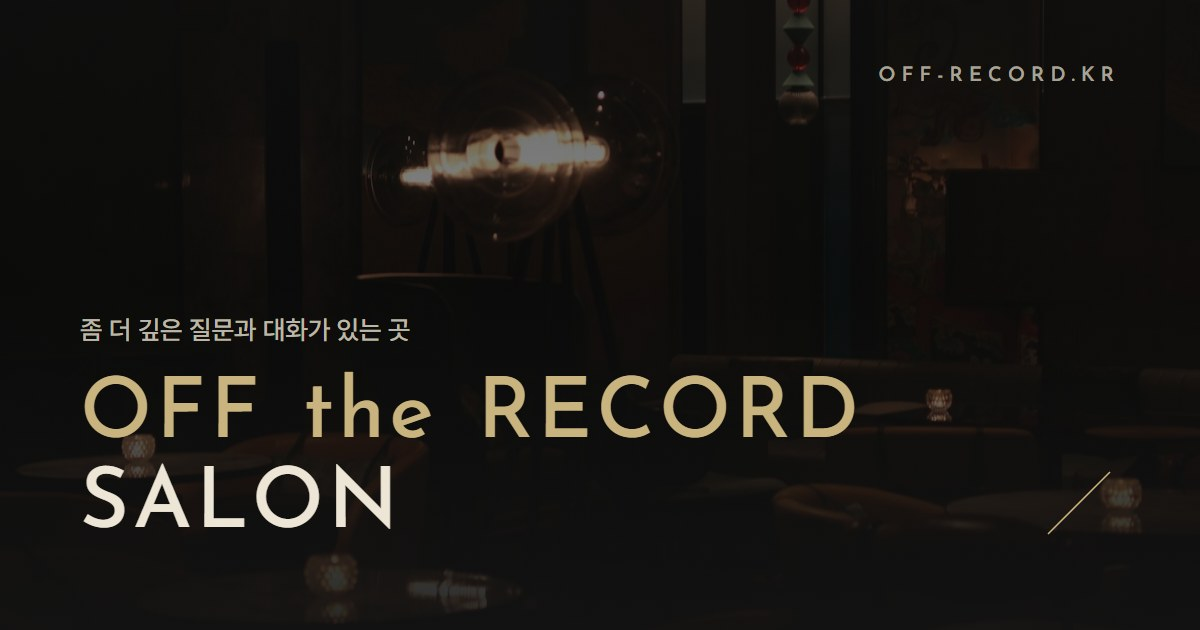
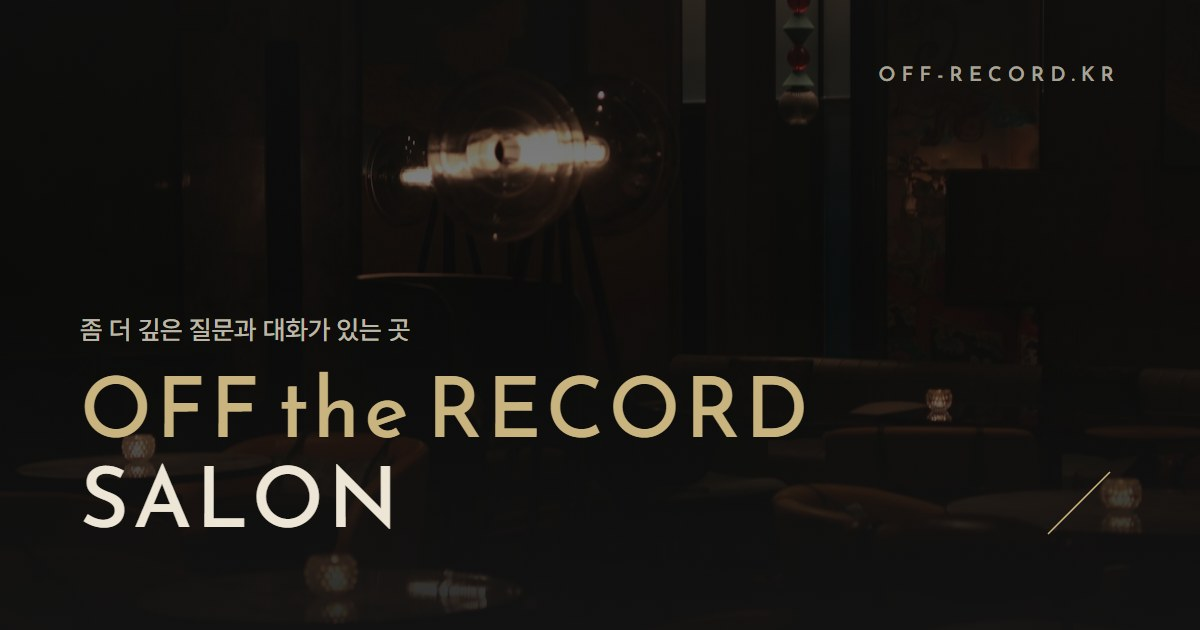
로고 단어 간격 -.2em

Changed region(s): [[0.2158, 0.573, 0.7092, 0.6937]]

diff --git a/admin.html b/admin.html
@@ -374,8 +374,8 @@ footer{background:var(--dk)}footer p{color:rgba(237,230,214,.35)}
 
 
 
-/* 로고 간격 (최종): 글자 .05em · 단어 .1em */
-.lg,.hprev-text b{letter-spacing:.05em!important;word-spacing:.1em!important}
+/* 로고 간격 (최종): 글자 .05em · 단어 -.2em */
+.lg,.hprev-text b{letter-spacing:.05em!important;word-spacing:-.2em!important}
 </style></head><body>
 <div class="gate" id="gate"><div class="gate-box">
   <h2><span class="lg">OFF&nbsp;the&nbsp;RECORD SALON</span><small>ADMIN</small></h2>

diff --git a/index.html b/index.html
@@ -531,8 +531,8 @@ body::after{display:none}
 
 
 
-/* 로고 간격 (최종): 글자 .05em · 단어 .1em */
-.hero-wordmark,.nav-logo-text,.sub-h.brand{letter-spacing:.05em!important;word-spacing:.1em!important}
+/* 로고 간격 (최종): 글자 .05em · 단어 -.2em */
+.hero-wordmark,.nav-logo-text,.sub-h.brand{letter-spacing:.05em!important;word-spacing:-.2em!important}
 </style></head><body>
 
 <nav class="nav" id="nav">
